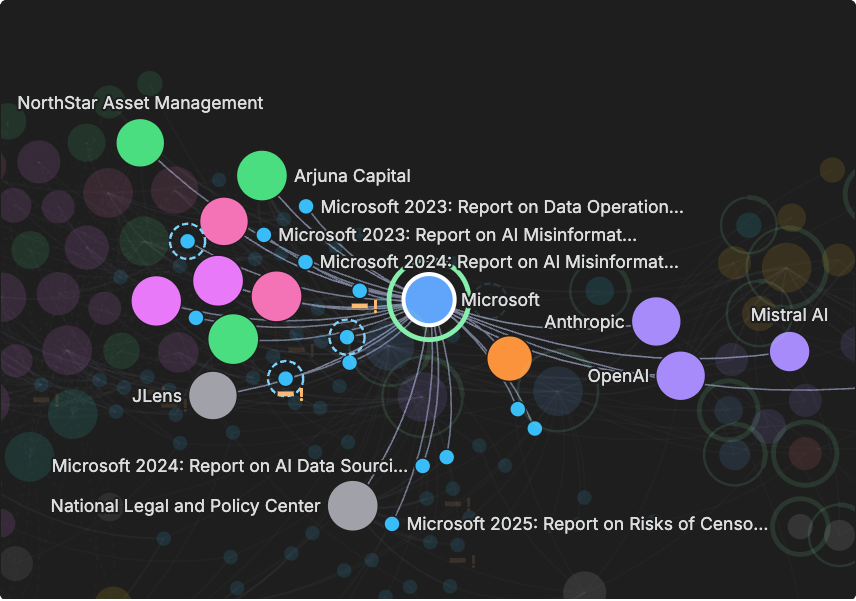
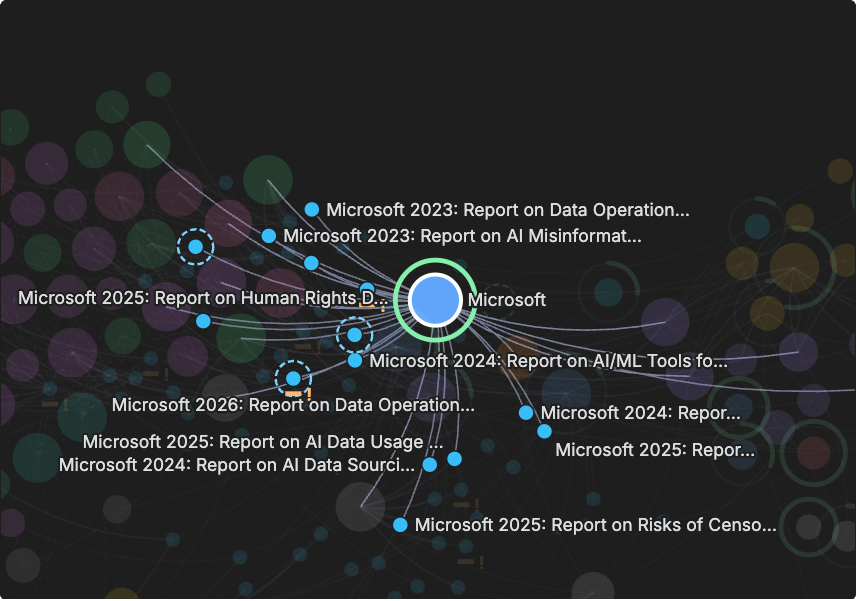
Phase 3 review R2 fixes: fund-record wording, plain key in the Individual lens, more label spots
- Fund detail line counts N-PX fund records in filings, as the Fund votes tab does (data R2)
- Individual lens key in plain words; graph status says circles; heading "{Family} funds, last year"
- Labels: diagonal spots and a shortened second try before a label is hidden
- STATE.md, plan build notes, review R2 files, refreshed screenshots

diff --git a/graph.js b/graph.js
@@ -506,12 +506,17 @@
     }
   }
 
+  // A lens can rename the key in plain words (lens.kindLabels); the facts and colours stay the same.
+  const kindLabel = (k) => (lens().kindLabels && lens().kindLabels[k]) || TYPE_LABEL[k];
+  function relabelLegend() {
+    document.querySelectorAll("#net-legend .leg").forEach((b) => { const t = b.querySelector(".leg-text"); if (t) t.textContent = kindLabel(b.dataset.kind); });
+  }
   function legend(data) {
     const kinds = [...new Set(data.nodes.map((n) => n.kind))];
     const order = Object.keys(TYPE_LABEL);
     kinds.sort((a, b) => order.indexOf(a) - order.indexOf(b));
     document.getElementById("net-legend").innerHTML = kinds.map((k) =>
-      `<button type="button" class="leg" data-kind="${esc(k)}" aria-pressed="${!state.hiddenKinds.has(k)}"><span class="dot" style="background:${nodeColor(k)}"></span>${esc(TYPE_LABEL[k])}</button>`).join("");
+      `<button type="button" class="leg" data-kind="${esc(k)}" aria-pressed="${!state.hiddenKinds.has(k)}"><span class="dot" style="background:${nodeColor(k)}"></span><span class="leg-text">${esc(kindLabel(k))}</span></button>`).join("");
   }
 
   // One plain line: how much is shown, and what node size means. Recomputed when layers change.
@@ -710,24 +715,46 @@
     const circles = items.map(({ d }) => ({ x: d.x, y: d.y, r: radius(d) }));
     const hits = (b) => placed.some((p) => b[0] < p[2] && p[0] < b[2] && b[1] < p[3] && p[1] < b[3])
       || circles.some((c) => c.x > b[0] - c.r && c.x < b[2] + c.r && c.y > b[1] - c.r && c.y < b[3] + c.r && !(c.x === b.nx && c.y === b.ny));
-    for (const { d, el } of items) {
-      const fs = Number(el.getAttribute("font-size")) || 11;
-      const w = el.textContent.length * fs * 0.56;
-      const h = fs * 1.2;
-      const r = radius(d) + 4;
-      const cands = [
-        { a: "start", x: d.x + r, y: d.y + fs * 0.35, box: [d.x + r, d.y - h / 2, d.x + r + w, d.y + h / 2] },
-        { a: "end", x: d.x - r, y: d.y + fs * 0.35, box: [d.x - r - w, d.y - h / 2, d.x - r, d.y + h / 2] },
+    // Candidate spots: right, left, above, below, then the four diagonals. If none is free, the label is
+    // tried again shortened to SHORT characters (the full name is in the panel and the List view).
+    const SHORT = 22;
+    const spots = (d, fs, w, h, r) => {
+      const dy = fs * 0.35;
+      const dg = r * 0.75;
+      return [
+        { a: "start", x: d.x + r, y: d.y + dy, box: [d.x + r, d.y - h / 2, d.x + r + w, d.y + h / 2] },
+        { a: "end", x: d.x - r, y: d.y + dy, box: [d.x - r - w, d.y - h / 2, d.x - r, d.y + h / 2] },
         { a: "middle", x: d.x, y: d.y - r - 2, box: [d.x - w / 2, d.y - r - 2 - h, d.x + w / 2, d.y - r - 2] },
         { a: "middle", x: d.x, y: d.y + r + fs, box: [d.x - w / 2, d.y + r, d.x + w / 2, d.y + r + h] },
+        { a: "start", x: d.x + dg, y: d.y - dg, box: [d.x + dg, d.y - dg - h * 0.8, d.x + dg + w, d.y - dg + h * 0.2] },
+        { a: "start", x: d.x + dg, y: d.y + dg + fs * 0.8, box: [d.x + dg, d.y + dg, d.x + dg + w, d.y + dg + h] },
+        { a: "end", x: d.x - dg, y: d.y - dg, box: [d.x - dg - w, d.y - dg - h * 0.8, d.x - dg, d.y - dg + h * 0.2] },
+        { a: "end", x: d.x - dg, y: d.y + dg + fs * 0.8, box: [d.x - dg - w, d.y + dg, d.x - dg, d.y + dg + h] },
       ].filter((c) => c.box[1] >= top && c.box[3] <= vy1 && c.box[0] >= Math.max(0, vx0) && c.box[2] <= Math.min(width, vx1));
+    };
+    for (const { d, el } of items) {
+      const fs = Number(el.getAttribute("font-size")) || 11;
+      const full = d.label.length > 42 ? d.label.slice(0, 40) + "…" : d.label;
+      const short = d.label.length > SHORT ? d.label.slice(0, SHORT - 1) + "…" : d.label;
+      const h = fs * 1.2;
+      const r = radius(d) + 4;
       let pick = null;
-      for (const c of cands) {
-        c.box.nx = d.x; c.box.ny = d.y;
-        if (!hits(c.box)) { pick = c; break; }
+      let text = full;
+      for (const t of short === full ? [full] : [full, short]) {
+        for (const c of spots(d, fs, t.length * fs * 0.56, h, r)) {
+          c.box.nx = d.x; c.box.ny = d.y;
+          if (!hits(c.box)) { pick = c; text = t; break; }
+        }
+        if (pick) break;
       }
+      const w = full.length * fs * 0.56;
+      const cands = spots(d, fs, w, h, r);
+      if (el.textContent !== text) el.textContent = text;
       // The focused node always keeps its label, at its first in-bounds spot.
-      if (!pick && d.id === focusId) pick = cands[0] || { a: "start", x: d.x + r, y: d.y + fs * 0.35, box: [d.x + r, d.y - h / 2, d.x + r + w, d.y + h / 2] };
+      if (!pick && d.id === focusId) {
+        pick = cands[0] || { a: "start", x: d.x + r, y: d.y + fs * 0.35, box: [d.x + r, d.y - h / 2, d.x + r + w, d.y + h / 2] };
+        if (el.textContent !== full) el.textContent = full;
+      }
       if (!pick) { el.setAttribute("opacity", 0); continue; }
       placed.push(pick.box);
       el.setAttribute("x", pick.x);
@@ -1161,6 +1188,7 @@
     }
     document.querySelectorAll("#net-legend .leg").forEach((b) => b.setAttribute("aria-pressed", String(!state.hiddenKinds.has(b.dataset.kind))));
     saveLens(id);
+    relabelLegend();
     setFeedView(lens().feed ? "feed" : "graph", false);
     drawRings();
     applySettings(true);
@@ -1172,7 +1200,7 @@
       const shown = state.data.nodes.filter(visible).length;
       document.getElementById("net-lens-status").textContent = lens().feed && state.feedView === "feed"
         ? `${lens().label} view: a list of upcoming AI proposals. See the bigger picture opens the graph.`
-        : `${lens().label} view${hidden.length ? ": " + hidden.join(", ") + " hidden" : ""}. ${shown} of ${state.data.nodes.length} nodes shown.`;
+        : `${lens().label} view${hidden.length ? ": " + hidden.join(", ") + " hidden" : ""}. ${shown} of ${state.data.nodes.length} ${lens().plainIntro ? "circles" : "nodes"} shown.`;
     }
   }
 

diff --git a/lenses.js b/lenses.js
@@ -252,7 +252,7 @@
       const ix = ctx.fv;
       const out = { tickers: [], family: null, familyNote: "", notFound: [], extraFamilies: [] };
       // Generic words that appear in many fund names don't pick a family on their own.
-      const GENERIC = new Set(["fund", "funds", "trust", "index", "etf", "etfs", "series", "the", "and", "investments", "investment"]);
+      const GENERIC = new Set(["fund", "funds", "trust", "index", "etf", "etfs", "series", "the", "and", "investments", "investment", "invest", "global", "social", "equity", "growth", "income"]);
       for (const tok of tokens) {
         const up = tok.toUpperCase();
         if (tickers.has(up)) { if (!out.tickers.includes(up)) out.tickers.push(up); continue; }
@@ -303,7 +303,7 @@
       const earlier = (ctx.proposals || []).find((x) => x.id === e.proposal_id) || {};
       // "Last year" when the earlier meeting was about 12 months before this one (up to 13 months).
       const near = earlier.meeting_date && p.meeting_date && dayOf(p.meeting_date) - dayOf(earlier.meeting_date) <= 396;
-      const heading = near ? `How ${family} funds voted last year` : `How ${family} funds voted on the ${e.year} version`;
+      const heading = near ? `${family} funds, last year` : `${family} funds, on the ${e.year} version`;
       const about = `Earlier version: “${e.title || earlier.title || ""}” (${e.year}), matched in this dataset by company, topic and similar title.`;
       if (!ix.families.includes(family)) return null;
       // Held back for checking, or not among the proposals checked: nothing is shown.
@@ -320,7 +320,8 @@
       return {
         heading,
         text: `${family}: ${FV.voteText(row)}`,
-        detail: [`from ${plural(n, "fund's filing", "funds' filings")}`, ...notes].join(" · "),
+        // Counts are N-PX vote records (one record can cover several fund series), as on the Fund votes tab.
+        detail: [`${plural(n, "fund record", "fund records")} in ${plural((row.sources || []).length, "Form N-PX filing", "Form N-PX filings")}`, ...notes].join(" · "),
         about,
         links: (row.sources || []).map((u, i) => ({ href: u, label: `${family} Form N-PX filing ${i + 1}` })),
       };
@@ -348,7 +349,19 @@
       feed: FEED,
       sizeLabel: "how many AI proposals each company has had",
       // Plain-language intro for the graph view of this lens.
-      plainIntro: (shown, total) => `Showing ${shown} of ${total} items. Bigger circles are companies with more AI proposals. Companies are grouped by their main role in AI, as this site reads it. Click any circle for details.`,
+      // Plain names for the key in this lens.
+      kindLabels: {
+        "tier-chips": "Chip makers",
+        "tier-datacenters": "Data centers and power",
+        "tier-compute": "Cloud providers",
+        "tier-labs": "AI model makers",
+        "tier-capital": "Big investors in AI",
+        "tier-deployers": "Companies using AI",
+        lab: "AI model makers",
+        company: "Company",
+        proposal: "Shareholder proposal",
+      },
+      plainIntro: (shown, total) => `Showing ${shown} of ${total} circles (companies, proposals and AI model makers). Bigger circles are companies with more AI proposals. Companies are grouped by their main role in AI, as this site reads it. Click any circle for details.`,
       measure: { label: "AI proposals on file", value: (n, ctx) => (isCompany(n) ? proposalsOnFile(n, ctx) : null) },
       defaults: { hiddenKinds: [...FILERS, "person", "policy", "response", "public"], orphans: true },
       size(n, ctx) {

diff --git a/tests/lens3.spec.js b/tests/lens3.spec.js
@@ -32,7 +32,7 @@ test("tickers and a fund: the list narrows and shows the fund's earlier vote wit
   await expect(page.locator("#lf-h")).toHaveText("Upcoming AI proposals at your companies");
   await expect(page.locator("#lf-status")).toContainText("for MSFT; fund family: Vanguard.");
   const fund = page.locator(".feed-fund").first();
-  await expect(fund.locator("h5")).toHaveText(/How Vanguard funds voted (last year|on the \d{4} version)/);
+  await expect(fund.locator("h5")).toHaveText(/Vanguard funds, (last year|on the \d{4} version)/);
   await expect(fund).toContainText("Vanguard: ");
   await expect(fund).toContainText("matched in this dataset by company, topic and similar title");
   await expect(page.locator(".feed-item").filter({ hasText: "Cisco" })).toHaveCount(0);

diff --git a/docs/reviews/2026-11-26 lens phase3 result R2 ux content.md b/docs/reviews/2026-11-26 lens phase3 result R2 ux content.md
@@ -1,0 +1,33 @@
+REVIEWER: UX / content SCORE: 84 VERDICT: PASS
+
+The three R1 failures are fixed in code at 0ee72a8:
+- **Definitions:** each one sits after its paragraph, opens on hover or tap, can be pinned, and closes with Esc.
+- **Fund line:** it reads "Vanguard: Against" with a separate detail line, and the heading names the family.
+- **Proxy link:** it reads "Read the proxy statement".
+
+I checked the result from the code, because the docs/design/lens-phase3/*.png screenshots were taken before these fixes. The feed wording is unverified visually.
+
+TOP FAILURES
+1. **The graph view's plain-language pass is only partial.** The intro is now plain (`plainIntro`, lenses.js: "Bigger circles are companies with more AI proposals…"). But other text this lens shows is still jargon:
+   - The live line after a lens change in graph view still says "…N of M nodes shown" (graph.js, the `net-lens-status` else-branch).
+   - The key chips in this lens still read "Hyperscalers and AI clouds" and "Frontier AI labs", and "Graph settings" is unchanged (R1 screenshot desktop-light-bigger-picture.png; no diff touches TYPE_LABEL).
+   - "Showing 154 of 346 items" doesn't say what an item is.
+2. **The new label placement hides labels of a selected node's connections.** In docs/design/legibility/desktop-light-co-MSFT.png, Microsoft is selected, yet about 6 connected circles (pink, green, orange) have no name. That's because `layoutLabels` sets opacity 0 when it finds no free spot (graph.js). DESIGN.md quotes the owner: "label all the connection nodes". The code comment points to the panel and List view instead. That's a reasonable trade-off, but it changes the owner's spec, so it should be raised with her, not decided here.
+3. **The lens-phase3 screenshots are from before the fixes.** AGENTS rule 20.3 needs current after-screenshots. The new definition placement (after the paragraph, pushing the list down on hover) and the moved "See the bigger picture" button have not been seen by anyone. Retake the default, MSFT+Vanguard and bigger-picture shots at 1440 and 390 px, and do one with a definition open.
+
+TOP IMPROVEMENTS
+1. Hovering "What's a proxy statement?" opens a block under the line and pushes the items below it down. In a long list that moves content under the pointer. Consider opening on hover only after a short delay, or on focus or click only for the repeated per-item term.
+2. Add a short note to the detail line about how few funds it covers, e.g. "from 1 fund's filing" is a small sample of Vanguard's funds. It's accurate now, but a lay reader may still read it as all of Vanguard.
+3. In this lens, rename the key chips to plain words (for example "Cloud providers" and "AI model makers"), as the lens's own labels.
+
+OUT-OF-FIELD NOTES
+- Accessibility: the mouseover-opened definitions sit outside the button. Check that a screen reader gets the definition through `aria-controls` alone, or add `aria-describedby`.
+- Visual: the header strip `rect` spans x -width to 2×width. Check that it doesn't cover nodes when zoomed out.
+- Data accuracy: msft "Additional Disclosures Meeting Climate Commitments" is still tagged "Data center impacts". Confirm it.
+
+CONTENT RULES: PASS
+- The glossary's "most people" claim was reworded to "Shareholders can vote online or by mail beforehand".
+- Nothing recommends a vote, `board_rec` isn't shown, and the disclaimer is quoted.
+- Fund votes are filed facts, each with N-PX links and the auto-match and partial-coverage notes.
+- Held-back and unchecked proposals now show nothing (`usable` returns null).
+- The scope "in this tracker" is kept, and the not-found counts are computed from the data.

diff --git a/docs/reviews/2026-11-26 lens phase3 result R2 data accuracy.md b/docs/reviews/2026-11-26 lens phase3 result R2 data accuracy.md
@@ -1,0 +1,29 @@
+REVIEWER: Data accuracy (Round 2, commit 0ee72a8) SCORE: 86 VERDICT: REVISE
+
+TOP FAILURES
+1. **The new detail line counts funds where the data counts fund records.** "from N fund's/funds' filing(s)" is built from `row.fund_records`. scripts/npx_votes.py:311-319 counts one record per matched N-PX vote record. Each record carries `series` and `series_count`, so a single record can cover several fund series. The Fund votes tab says the opposite of the feed: "The numbers count fund records… a single fund can split its own shares." Examples:
+   - Vanguard (msft-2025-8 and 9): "from 1 fund's filing". That one record comes from Vanguard Index Funds (CIK 36405), so it may be several series.
+   - Parnassus: "from 5 funds' filings", but `sources` has 2 filings.
+   I couldn't check series counts because the raw run file isn't in the repo. Fix: go back to "{n} fund record(s) in {k} filing(s)", or use the tab's wording.
+2. Nothing else fails.
+   - **Matching:** IVV/ivv, DSEFX, GCEQX and TISCX now match their families. "iShares Core S&P 500 ETF", "Vanguard Total Stock Market Index Fund", "The Domini Fund", "CREF", "Impax" and "Green" match correctly. "Fund", "trust", "ETF" and "index" are now not found. "a" and "II" are rejected. "Calvert, Parnassus" uses Calvert and lists Parnassus under "also matched". "Fund, Vanguard" picks Vanguard and lists "Fund" as not found.
+   - **Fund lines:** a held-back or unchecked earlier version now returns null.
+
+TOP IMPROVEMENTS
+1. "Invest" still picks Calvert, through "Calvert Social Investment Fund". Consider adding word stems like "invest" and "global" to the generic list, or match whole words only.
+2. Domini's line comes back with no detail (`detail` undefined), and graph.js leaves it out correctly. Its heading "How Domini funds voted last year" sits over "Not checked…", which reads oddly. Consider "Domini funds last year".
+3. The 396-day "last year" window is fine: MSFT's two meetings are 368 days apart.
+
+Recomputed (clock 2026-11-25, US Eastern):
+- **Items:** msft-2026-4, msft-2026-5 and msft-2026-6 (proxy note "Vote by 11:59 p.m. Eastern, December 7, 2026."), then csco-2026-5.
+- **Fund lines:** on msft-2026-5 and 6, every family matches the msft-2025-9 and msft-2025-8 summary rows: vote, sources (filing 1 and 2 links), the "matched automatically, not yet reviewed" flag on all but Parnassus (reviewed), and the partial-coverage note on Vanguard only. This agrees with the Fund votes tab's † and ‡ marks.
+- **No line:** msft-2026-4 and csco-2026-5 have no vote history. Praxis shows its `not_shown` note.
+- **Quiet lines:** they show only deadlines that are still open, with their proxy source.
+- **Not-found counts:** the not-found line now gives the 60 companies and 8 families.
+
+OUT-OF-FIELD NOTES
+- The earlier title "…Human Rights Hotspots" against "…and Conflict Hotspots" is still unconfirmed by the owner. The "about" line quotes it, which is acceptable.
+- The definition of "annual meeting" no longer says "Most people", which is good: that was an unsourced claim.
+- docs/STATE.md and the plan have uncommitted changes in the worktree. I didn't touch them.
+
+CONTENT RULES: PASS, with one caveat. There is no vote advice: the disclaimer is shown, the labels are neutral, and every row is sourced. The caveat is Never claim 5 (no invented numbers): "N funds' filings" restates a fund-record count as a number of funds. Fix that wording before release.

diff --git a/docs/STATE.md b/docs/STATE.md
@@ -90,13 +90,22 @@ The owner's spec has four phases, and each phase gets its own plan and reviews i
   - result R1: UX 74, accessibility 84 PASS, data 70.
   - result R2: UX 84 PASS, data 86 PASS. Their remaining points were fixed after R2 and not re-reviewed: the ring reads as the threshold after the vote, "Close to the N% threshold", a refile goes to the meeting after the company's open deadline, and "at the threshold" covers a 0-point margin.
 
+- **Phase 3 (Individual investor; plan docs/plans/2026-11-26-lens-phase3.md, Revision 2 plus build notes):** a list first (`view=feed|graph`).
+  - **Input and list:** a tickers-or-fund input lists upcoming AI proposals with `plain_summary` (or the title), the meeting date, the proxy note and "Read the proxy statement".
+  - **Fund votes:** "How {Family} funds voted last year", using the Fund votes tab's join and wording (`window.FundVotes`).
+  - **Definitions:** plain-language definitions open on hover or tap, in this lens only. PRODUCT.md and DESIGN.md record the exception.
+  - **Bigger picture:** "See the bigger picture" opens the graph with holdings applied.
+  - **Change to the owner's spec:** fund nodes are not added to the graph, because fund_votes.json has no graph edges. Fund votes appear as feed lines.
+- **Legibility (owner, 2026-11-26):**
+  - graph labels never overlap; the browser tooltip is removed;
+  - column headers sit on an opaque strip that nodes can't enter;
+  - filer row labels are dropped. The owner asked whether the axes help. The answer given: the column headers do, the row labels didn't.
+- **Process slip (2026-11-26):** a command chain pushed Phase 2 to `main` while one test (a timing flake) was failing. Fixed 3 minutes later in 1bfef97, with the check passing. Pushes are now conditional on the check's exit code.
+- **Tests:** Playwright is capped at 3 workers, because the local python server dropped connections under full parallel load.
+
 ## Next (UI session)
 
-1. **Lens Phase 3 (Individual investor):**
-   - a feed first: tickers or fund in, upcoming AI proposals out, with `plain_summary` (falling back to the title), vote date and source;
-   - fund N-PX votes and `pass_through_voting` where the data has them;
-   - "See the bigger picture" opens the graph with holdings applied;
-   - hover definitions in this lens only.
+1. **Phase 3 follow-up:** show `pass_through_voting` once data/phase3 merges (`offered` null means no program found on the pages checked, never "no").
 2. **Lens Phase 4 (Policymaker):** clusters by topic, sized by how often an ask recurs; `coverage` on topic-to-policy edges.
 3. **Value-chain map and engagement map** from `data/value_chain.json` (`ties`, `per_tier`).
 

diff --git a/docs/plans/2026-11-26-lens-phase3.md b/docs/plans/2026-11-26-lens-phase3.md
@@ -145,3 +145,21 @@ These override the sections above.
 - Links carry visually hidden context ("for Microsoft 2026: …").
 
 **Not in Phase 3 (owner's spec change, recorded in STATE.md):** fund nodes in the graph are not added. Fund votes appear as feed lines, because fund_votes.json has no graph edges yet.
+
+## Build notes (after result review R1: UX 76, accessibility 84 PASS, data 80)
+
+- **Definitions** sit after their paragraph, never mid-sentence. They open on hover or tap and stay while pointed at; click pins them, and Esc closes them (WCAG 1.4.13).
+- **Fund line:** "{Family}: {vote}" plus a detail line, under the heading "How {Family} funds voted last year". A held-back or unchecked earlier version shows nothing.
+- **Matching:** family-list fund tickers (IVV, DSEFX, GCEQX, TISCX) match. Generic words are ignored. Extra families are reported, and the hint asks for tickers.
+- **Announcements:** they match what is shown, including the lens switch to the list.
+- **Plain-language graph intro** in this lens.
+- **Owner, mid-build:**
+  - graph labels never overlap;
+  - column headers sit on an opaque strip;
+  - filer row labels are dropped.
+- **After result review R2** (UX 84 PASS, data 86 REVISE; round cap reached, so these are not re-reviewed):
+  - The fund detail line reads "N fund records in K Form N-PX filings", the Fund votes tab's unit.
+  - The heading reads "{Family} funds, last year".
+  - More generic words are ignored in matching.
+  - The Individual lens's key uses plain names ("Cloud providers", "AI model makers").
+  - A crowded label is shortened before it is hidden.
